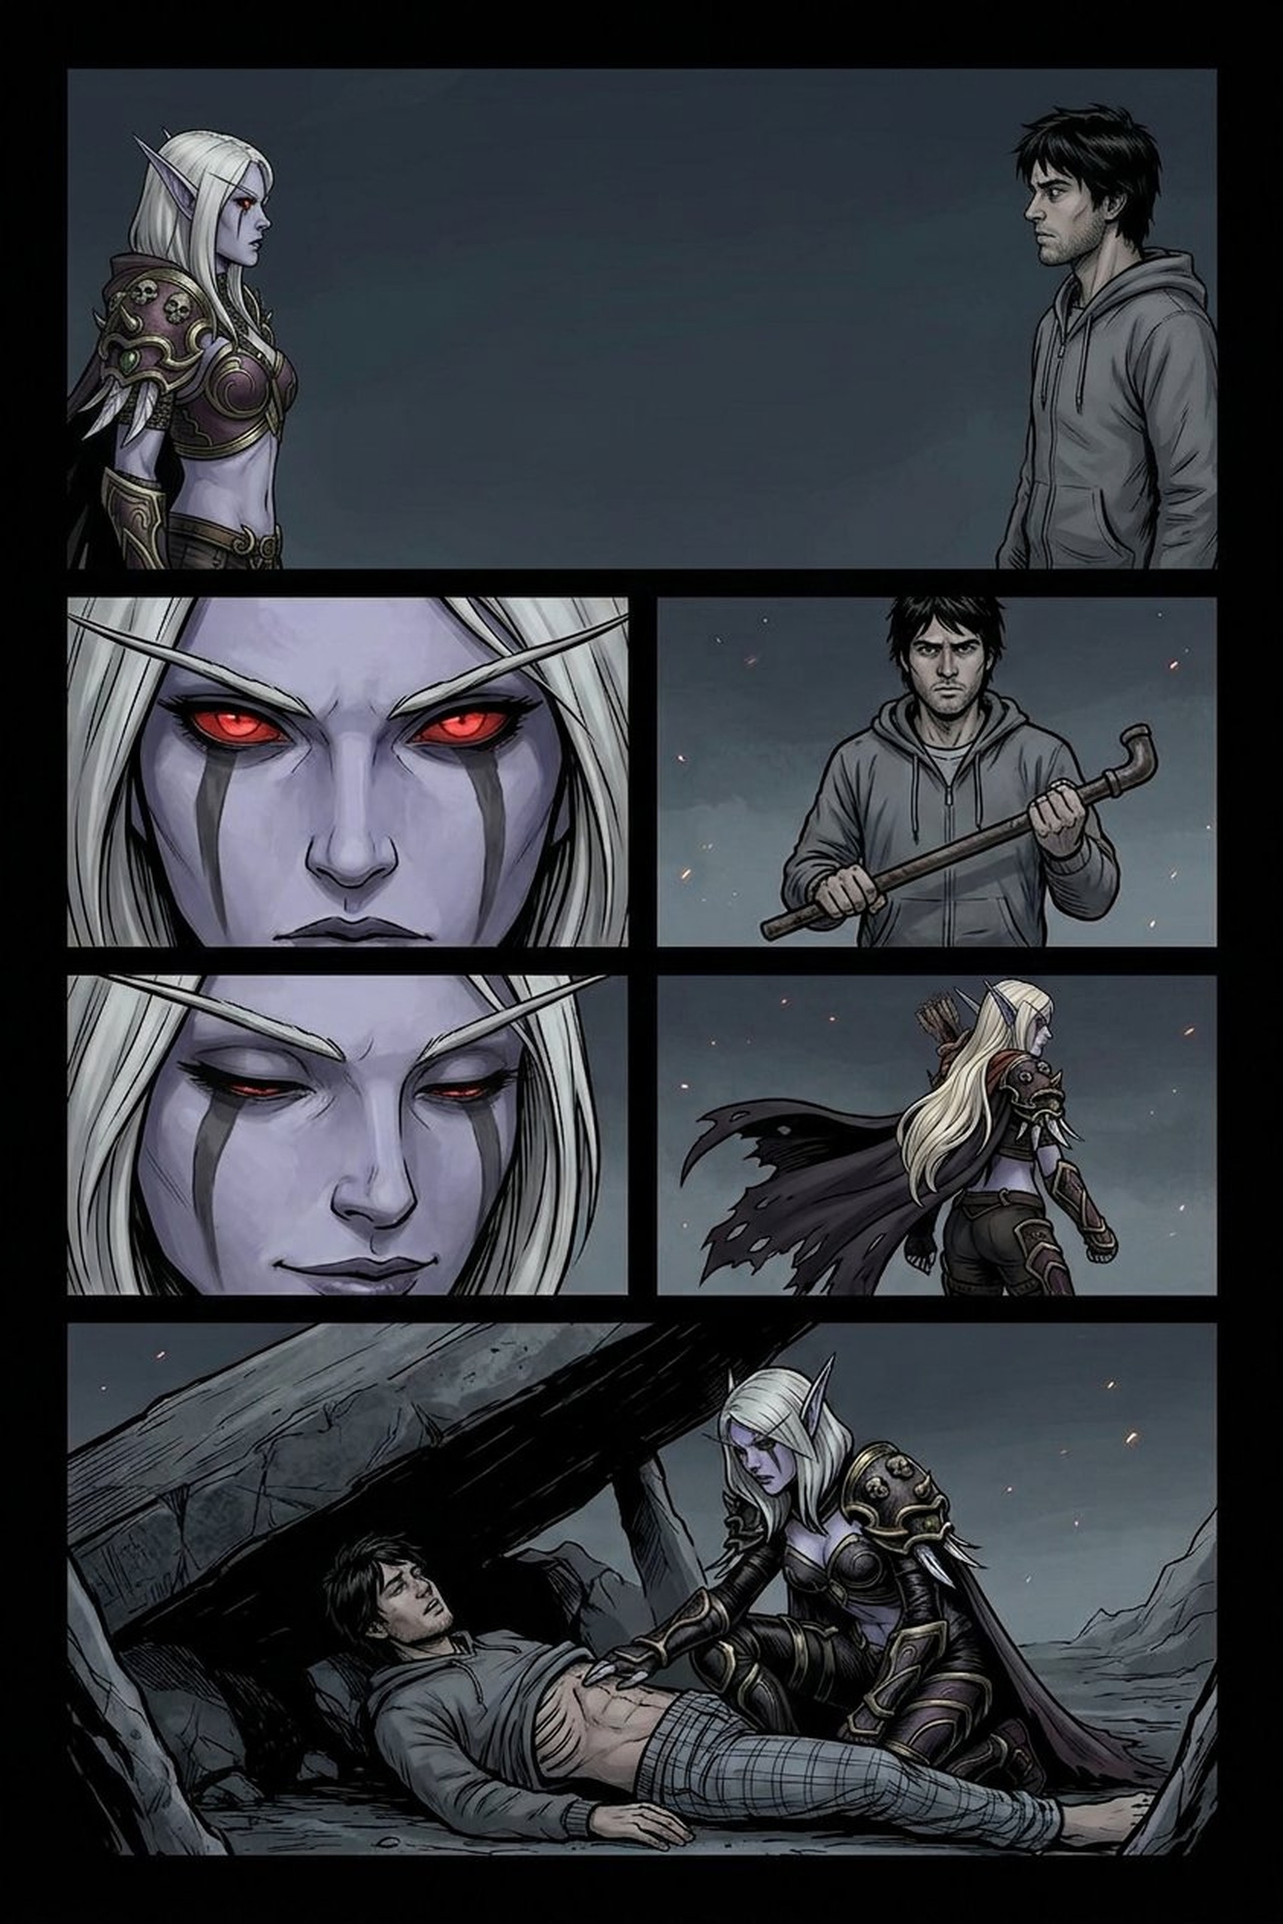
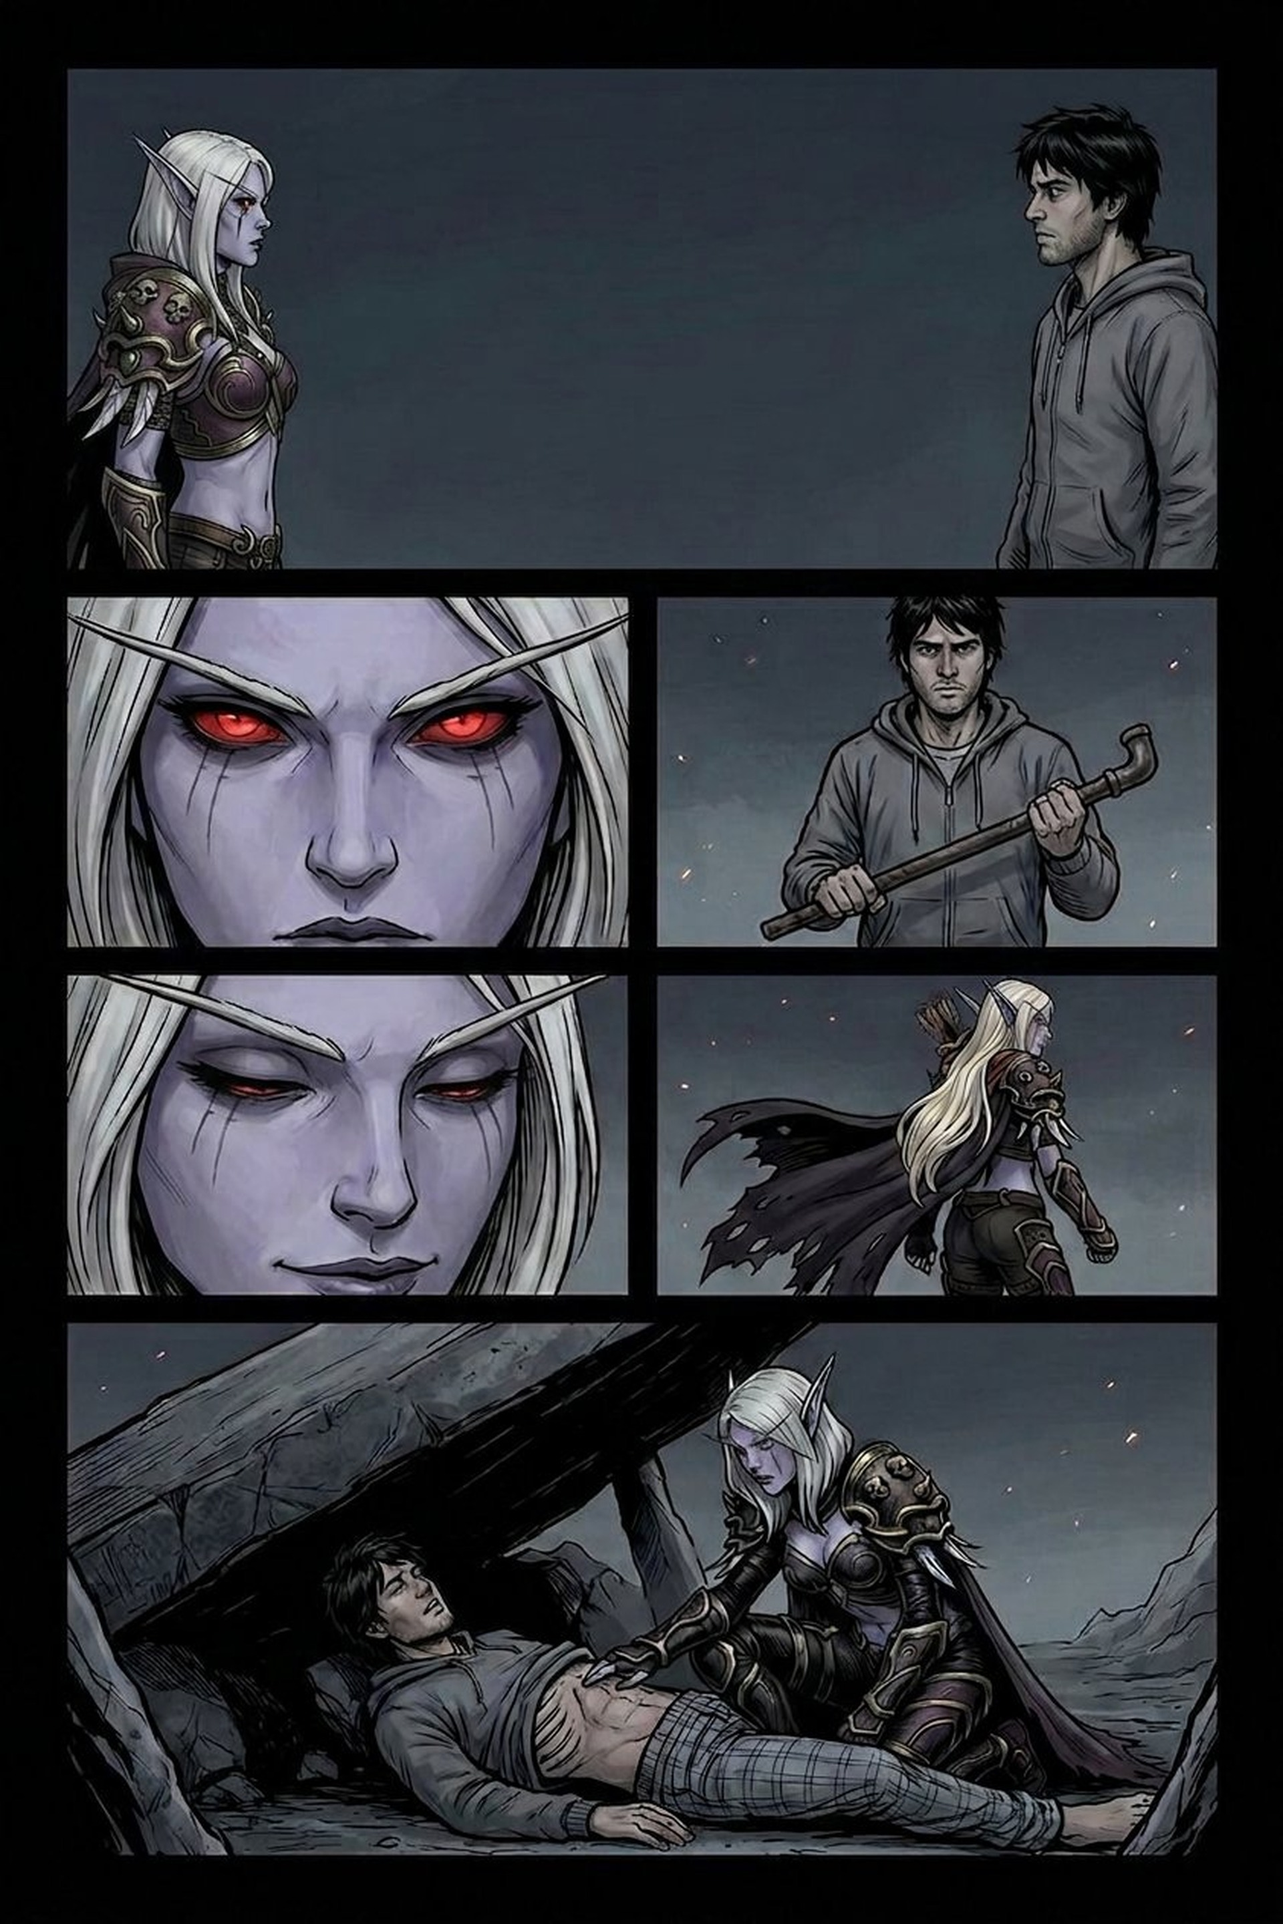
v18 20260911-18: balões por personagem (amarelo=Nathan, branco=Sylvanas) + zero balões sobre personagens
- Distinção visual de falantes: Nathan em balões AMARELOS, Sylvanas em
  balões BRANCOS; caudas recalibradas para apontar para o falante correto
  em todas as páginas
- Marcas sob os olhos da Sylvanas agora idênticas às das primeiras
  páginas (finas e sutis, conforme ficha) — close-ups da P10 regenerados
- Zona de corpo seguro anotada em TODOS os 59 quadros: nenhum balão
  toca rosto ou corpo em nenhuma página (validador 0 violações)
- P5 regenerada (close-ups com céu + panorâmico final); P4-q5 regenerado
  (céu à direita); falas longas redistribuídas para quadros com espaço
- Validador: 94 balões, fs mínima 19px, 0 violações, 0 fora do quadro

diff --git a/livro continua/site/hq/data.js b/livro continua/site/hq/data.js
@@ -16,15 +16,15 @@ const PAGINAS = [
 { img:"img/page01.jpg",
   paineis:[
    {r:[30,30,1215,450]},                                             // 0 panorâmica
-   {r:[75,490,630,525], rostos:[[500,540,150,170]]},                 // 1 acordou
+   {r:[75,490,630,525], rostos:[[500,540,150,170]], zonas:[[240,660,320,350],[90,500,150,510]]},                 // 1 acordou
    {r:[710,490,490,325], zonas:[[712,640,486,170]]},                 // 2 pés
-   {r:[30,835,1215,745], rostos:[[510,1080,135,225]]},               // 3 sentado (grande)
-   {r:[75,1600,1130,285], rostos:[[340,1605,370,275]]}               // 4 close rosto
+   {r:[30,835,1215,745], rostos:[[520,1085,90,95]], zonas:[[505,1180,140,130],[270,1440,710,140]]},               // 3 sentado (grande)
+   {r:[75,1600,1130,285], rostos:[[340,1605,370,275]], zonas:[[75,1600,1130,285]]}               // 4 close rosto
   ],
   elementos:[
    {t:"narra", p:0, texto:"O último de que Nathan se lembrava era o brilho azulado do monitor apagando sozinho, às três e quarenta da manhã."},
-   {t:"narra", p:1, texto:"Acordou com o rosto apoiado em pedra. Fria. Áspera. Com cheiro de metal velho e coisa queimada há muito tempo."},
-   {t:"narra", p:2, texto:"Moletom cinza. Calça de pijama. Um pé descalço, o outro com meia."},
+   {t:"narra", p:0, texto:"Acordou com o rosto apoiado em pedra. Fria. Áspera. Com cheiro de metal velho e coisa queimada há muito tempo."},
+   {t:"narra", p:0, texto:"Moletom cinza. Calça de pijama. Um pé descalço, o outro com meia."},
    {t:"fala", p:3, de:"nathan", ancora:[545,1195], texto:"Certo... Isso é um sonho."},
    {t:"sussurro", p:3, de:"nathan", ancora:[615,1195], texto:"A Gorja... eu estou na Gorja."},
    {t:"sfx", x:1050, y:1820, w:180, texto:"CRRRACK", rot:-12, tamanho:34}
@@ -32,12 +32,12 @@ const PAGINAS = [
 /* ==================== PÁGINA 2 — A caçada (arte real) ==================== */
 { img:"img/page02.jpg",
   paineis:[
-   {r:[55,30,1170,500], rostos:[[760,170,115,115]], zonas:[[335,35,240,200]]}, // 0 guarda
-   {r:[55,545,470,490], rostos:[[235,680,100,100]]},                           // 1 desvio
-   {r:[540,545,685,490], rostos:[[590,645,105,105]], zonas:[[890,595,240,170]]},// 2 soco
-   {r:[25,1060,390,800], rostos:[[95,1235,95,95]], zonas:[[205,1085,200,210]]},// 3 raspão
-   {r:[430,1050,825,445], rostos:[[710,1095,85,85]]},                          // 4 corrida
-   {r:[430,1510,825,370], rostos:[[808,1610,130,112]], zonas:[[465,1535,310,270],[955,1690,165,125]]}// 5 martelada
+   {r:[55,30,1170,500], rostos:[[150,55,95,98],[760,170,115,115]], zonas:[[110,140,270,365],[660,285,280,215]]}, // 0 guarda
+   {r:[55,545,470,490], rostos:[[235,680,100,100]], zonas:[[100,780,335,250]]},                           // 1 desvio
+   {r:[540,545,685,490], rostos:[[590,645,105,105]], zonas:[[555,750,230,285],[890,545,335,490]]},// 2 soco
+   {r:[25,1060,390,800], rostos:[[95,1235,95,95]], zonas:[[205,1085,200,210],[40,1330,345,420]]},// 3 raspão
+   {r:[430,1050,825,445], rostos:[[710,1095,85,85]], zonas:[[670,1180,210,310]]},                          // 4 corrida
+   {r:[430,1510,825,370], rostos:[[808,1610,130,112]], zonas:[[440,1515,330,360],[770,1725,270,150]]}// 5 martelada
   ],
   elementos:[
    {t:"sfx", x:380, y:590, w:200, texto:"CRRRR", rot:-4, tamanho:40},
@@ -51,11 +51,11 @@ const PAGINAS = [
 /* ==================== PÁGINA 3 — As três flechas (arte: page03.jpg) ==================== */
 { img:"img/page03.jpg",
   paineis:[
-   {r:[30,30,600,495], rostos:[[450,235,95,75]], zonas:[[55,40,275,245]]},       // 0 golpe/salto
-   {r:[645,30,600,930], zonas:[[820,35,390,310],[690,690,460,250]]},             // 1 erguida p/ matar
+   {r:[30,30,600,495], rostos:[[450,235,95,75]], zonas:[[30,30,262,300],[290,315,300,185]]},       // 0 golpe/salto
+   {r:[645,30,600,930], zonas:[[690,60,555,700],[840,880,310,80]], rostos:[[882,802,74,74]]},             // 1 erguida p/ matar
    {r:[30,560,600,970], zonas:[[45,800,540,220]]},                               // 2 três flechas
-   {r:[30,1560,600,330], rostos:[[390,1610,95,85]], zonas:[[45,1565,270,295]]},  // 3 cai/dissolve
-   {r:[645,1560,600,330], rostos:[[775,1585,105,120],[665,1755,150,145]]}        // 4 Sylvanas surge
+   {r:[30,1560,600,330], rostos:[[390,1610,95,85]], zonas:[[45,1565,270,295],[330,1695,262,190]]},  // 3 cai/dissolve
+   {r:[645,1560,600,330], rostos:[[790,1588,55,60],[665,1755,150,145]], zonas:[[765,1650,125,62],[895,1700,350,190]]}        // 4 Sylvanas surge
   ],
   elementos:[
    {t:"narra", p:0, texto:"Inútil. Ele sabia que era inútil."},
@@ -69,50 +69,51 @@ const PAGINAS = [
 /* ==================== PÁGINA 4 — Sylvanas (arte: page04.jpg) ==================== */
 { img:"img/page04.jpg",
   paineis:[
-   {r:[30,30,1215,610], rostos:[[195,165,70,90],[795,42,50,75]], zonas:[[600,105,290,78]]},   // 0 encontro
-   {r:[30,660,500,270], rostos:[[40,665,450,260]]},                                                // 1 close Nathan
-   {r:[545,660,700,270], rostos:[[550,665,690,260]]},                                              // 2 olhos dela
-   {r:[30,950,1215,440], rostos:[[372,1052,55,80],[890,1022,45,65]], zonas:[[325,1050,140,255],[900,1125,44,66]]}, // 3 dois no quadro
-   {r:[30,1400,500,490], rostos:[[400,1478,50,78]], zonas:[[18,1418,228,448]]},                   // 4 OTS ombro dela
-   {r:[545,1400,700,490], rostos:[[595,1478,215,245]], zonas:[[950,1728,145,162]]}                 // 5 close aceno
+   {r:[30,30,1215,610], rostos:[[195,250,72,100],[628,58,60,72]], zonas:[[160,255,330,380],[520,55,360,560]]},   // 0 encontro
+   {r:[30,660,500,270], rostos:[[40,665,450,260]], zonas:[[30,660,500,270]]},                                                // 1 close Nathan
+   {r:[545,660,700,270], rostos:[[550,665,690,260]], zonas:[[545,660,700,270]]},                                              // 2 olhos dela
+   {r:[30,950,1215,440], rostos:[[352,1032,56,64],[686,1150,50,58]], zonas:[[320,1098,150,270],[628,1148,198,290]]}, // 3 dois no quadro
+   {r:[30,1400,500,490], rostos:[[342,1440,54,60]], zonas:[[18,1400,288,490],[300,1502,145,318]]},                   // 4 OTS ombro dela
+   {r:[545,1400,700,490], rostos:[[615,1650,120,140]], zonas:[[585,1650,240,240],[985,1400,260,490]]}                 // 5 close aceno
   ],
   elementos:[
-   {t:"fala", p:0, de:"sylvanas", ancora:[885,150], texto:"Você sabe meu nome."},
-   {t:"fala", p:0, de:"nathan", rouca:1, ancora:[250,275], texto:"Sylvanas."},
+   {t:"fala", p:0, de:"sylvanas", ancora:[655, 95], texto:"Você sabe meu nome."},
+   {t:"fala", p:0, de:"nathan", rouca:1, ancora:[230, 290], texto:"Sylvanas."},
    {t:"narra", p:3, texto:"A garganta fechou. Não de medo — ou não só. Aquilo era um curto-circuito entre o que é real e o que é história."},
-   {t:"fala", p:3, de:"nathan", ancora:[400,1105], texto:"Sei."},
-   {t:"fala", p:3, de:"sylvanas", ancora:[900,1110], texto:"Diga como."},
-   {t:"fala", p:3, de:"nathan", ancora:[400,1110], texto:"Você não vai acreditar."},
-   {t:"fala", p:3, de:"sylvanas", ancora:[900,1115], texto:"Isso é irrelevante. Diga mesmo assim."},
-   {t:"fala", p:4, de:"nathan", ancora:[430,1530], xpref:"dir", tamanho:20, texto:"Eu dormi na minha casa. No meu mundo. Acordei aqui. Sem transição, sem portal, sem nada."},
-   {t:"fala", p:5, de:"nathan", ancora:[805,1655], texto:"Acordei de pijama numa pedra... e a primeira coisa que apareceu tentou me abrir ao meio."},
-   {t:"fala", p:5, de:"nathan", ancora:[700,1700], texto:"Obrigado, aliás. Por isso."},
+   {t:"fala", p:3, de:"nathan", ancora:[378, 1085], texto:"Sei."},
+   {t:"fala", p:3, de:"sylvanas", ancora:[708, 1170], texto:"Diga como."},
+   {t:"fala", p:3, de:"nathan", ancora:[210, 1000], texto:"Você não vai acreditar."},
+   {t:"fala", p:0, de:"sylvanas", ancora:[655, 95], texto:"Isso é irrelevante. Diga mesmo assim."},
+   {t:"fala", p:0, de:"nathan", ancora:[100, 120], tamanho:20, texto:"Eu dormi na minha casa. No meu mundo. Acordei aqui. Sem transição, sem portal, sem nada."},
+   {t:"fala", p:5, de:"nathan", ancora:[675, 1720], texto:"Acordei de pijama numa pedra... e a primeira coisa que apareceu tentou me abrir ao meio."},
+   {t:"fala", p:5, de:"nathan", ancora:[675, 1720], texto:"Obrigado, aliás. Por isso."},
    {t:"narra", p:3, texto:"Ela não reagiu ao agradecimento. Nem para aceitar, nem para desprezar."}
   ]},
 /* ==================== PÁGINA 5 — O jogo (quadros provisórios) ==================== */
 /* ==================== PÁGINA 5 — O jogo (arte real) ==================== */
 { img:"img/page05.jpg",
  paineis:[
-   {r:[30,30,1215,585], rostos:[[195,95,75,85],[420,180,65,75]], zonas:[[265,115,370,485],[750,270,330,330]]},
-   {r:[30,630,590,310], rostos:[[95,692,112,122]]},
-   {r:[650,630,600,310], rostos:[[842,712,105,120]]},
-   {r:[30,960,630,410], rostos:[[855,1075,105,105],[30,1265,185,110]], zonas:[[810,1075,160,260]]},
-   {r:[670,960,580,200], rostos:[[730,982,270,172]]},
-   {r:[670,1180,580,190], rostos:[[795,1195,110,110]], zonas:[[690,1185,90,180]]},
-   {r:[30,1390,1215,500], rostos:[[425,1445,70,90],[675,1625,70,80]], zonas:[[390,1530,150,330],[650,1700,130,170]]}
+   {r:[30,30,1215,585], rostos:[[195,95,75,85],[420,180,65,75]], zonas:[[140,180,195,425],[390,255,122,350],[880,300,335,300]]},
+   {r:[30,630,590,310], rostos:[[458,798,80,84]], zonas:[[420,880,175,60],[400,825,60,80]]},
+   {r:[650,630,600,310], rostos:[[788,788,125,162]], zonas:[[680,930,300,10]]},
+   {r:[30,960,630,410], rostos:[[498,1042,84,92],[30,1265,185,110]], zonas:[[475,1035,160,235],[30,1210,205,158],[230,1300,400,68]]},
+   {r:[670,960,580,200], rostos:[[730,982,270,172]], zonas:[[670,960,580,200]]},
+   {r:[670,1180,580,190], rostos:[[795,1195,110,110]], zonas:[[680,1300,345,68]]},
+   {r:[30,1390,1215,500], rostos:[[96,1768,28,26],[868,1792,26,24]], zonas:[[78,1795,75,80],[848,1815,62,60]]}
  ],
  elementos:[
    {t:"fala", p:0, de:"sylvanas", ancora:[230, 185], texto:"Seu mundo."},
    {t:"fala", p:0, de:"nathan", ancora:[450, 225], texto:"Outro mundo. Não Azeroth. Não... nada disso."},
-   {t:"fala", p:1, de:"sylvanas", ancora:[190, 880], texto:"E nesse outro mundo... as pessoas conhecem o meu nome."},
-   {t:"fala", p:2, de:"nathan", ancora:[900, 880], texto:"Conhecem. Milhões delas."},
-   {t:"narra", p:2, texto:"O silêncio ficou muito mais frio."},
-   {t:"fala", p:2, de:"sylvanas", ancora:[900, 870], texto:"Explique."},
-   {t:"fala", p:3, de:"nathan", ancora:[120, 1300], texto:"No meu mundo, Azeroth existe dentro de um jogo. Chama-se World of Warcraft. As pessoas se sentam diante de uma máquina, controlam personagens, viajam por Ventobravo, Orgrimmar, Tirisfal... Eu passei anos fazendo isso."},
-   {t:"fala", p:3, de:"sylvanas", ancora:[908, 1105], texto:"Um jogo."},
-   {t:"fala", p:3, de:"nathan", ancora:[125, 1305], texto:"Um jogo."},
+   {t:"fala", p:1, de:"sylvanas", ancora:[498, 828], texto:"E nesse outro mundo... as pessoas conhecem o meu nome."},
+   {t:"fala", p:2, de:"nathan", ancora:[852, 830], texto:"Conhecem. Milhões delas."},
+   {t:"narra", p:5, texto:"O silêncio ficou muito mais frio."},
+   {t:"fala", p:1, de:"sylvanas", ancora:[498, 828], texto:"Explique."},
+   {t:"fala", p:3, de:"nathan", ancora:[130, 1260], tamanho:20, texto:"No meu mundo, Azeroth existe dentro de um jogo. Chama-se World of Warcraft."},
+   {t:"fala", p:0, de:"nathan", ancora:[230, 290], tamanho:20, texto:"As pessoas se sentam diante de uma máquina, controlam personagens, viajam por Ventobravo, Orgrimmar, Tirisfal... Eu passei anos fazendo isso."},
+   {t:"fala", p:3, de:"sylvanas", ancora:[530, 1090], texto:"Um jogo."},
+   {t:"fala", p:3, de:"nathan", ancora:[200, 1270], texto:"Um jogo."},
    {t:"fala", p:6, de:"sylvanas", ancora:[460, 1470], texto:"E dentro desse jogo existe alguém chamada Sylvanas Windrunner."},
-   {t:"fala", p:6, de:"nathan", ancora:[460, 1475], texto:"Existe a sua história inteira. Desde Quel'Thalas."},
+   {t:"fala", p:6, de:"nathan", ancora:[882, 1818], texto:"Existe a sua história inteira. Desde Quel'Thalas."},
    {t:"fala", p:6, de:"sylvanas", ancora:[460, 1535], texto:"Você é uma armadilha, um espião ou um lunático. Nenhuma das três hipóteses recomenda que eu o deixe vivo."},
    {t:"fala", p:6, de:"nathan", ancora:[710, 1700], texto:"Se eu fosse uma armadilha... eu teria vindo com sapatos."}
  ]},
@@ -221,7 +222,7 @@ const PAGINAS = [
    {r:[650,580,600,370], rostos:[[790,628,112,108]], zonas:[[690,760,300,110]]},
    {r:[30,970,590,330], rostos:[[30,970,590,330]]},
    {r:[650,970,600,330], rostos:[[798,1000,64,58]], zonas:[[690,1040,270,240]]},
-   {r:[30,1320,1215,570], rostos:[[300,1518,68,52],[618,1382,58,58]], zonas:[[240,1565,430,295],[555,1430,265,340]]}
+   {r:[30,1320,1215,570], rostos:[[300,1518,68,52],[618,1382,58,58]], zonas:[[240,1565,430,295],[555,1430,265,340],[61,1490,175,400]]}
  ],
  elementos:[
    {t:"fala", p:0, de:"sylvanas", ancora:[235, 205], tamanho:20, texto:"Você entende que não tem absolutamente nenhuma condição de me ajudar."},
@@ -230,7 +231,7 @@ const PAGINAS = [
    {t:"fala", p:0, de:"nathan", ancora:[842, 150], tamanho:20, texto:"Prometer que eu vou correr e não voltar é uma promessa sobre a pessoa que eu sou."},
    {t:"fala", p:0, de:"nathan", ancora:[842, 150], tamanho:20, texto:"E eu prefiro não mentir sobre isso... no meu primeiro dia."},
    {t:"fala", p:4, de:"sylvanas", ancora:[830, 1029], texto:"Hm."},
-   {t:"narra", p:5, texto:"Muito baixo. Quase inaudível. Ela voltou a andar. Ele a seguiu — três passos atrás, à esquerda."},
+   {t:"narra", p:4, texto:"Muito baixo. Quase inaudível. Ela voltou a andar. Ele a seguiu — três passos atrás, à esquerda."},
    {t:"narra", p:5, texto:"Estranhamente, isso não o assustou."},
    {t:"narra", p:5, texto:"Isso o deixou curioso."},
    {t:"narra", p:5, texto:"Durante quatro anos, ele carregara o rosto dela no braço. E naquela noite, a primeira de muitas, percebeu que não sabia absolutamente nada sobre a mulher que tinha salvo sua vida."},

diff --git a/livro continua/site/hq/leitor.js b/livro continua/site/hq/leitor.js
@@ -6,7 +6,7 @@
    Rabichos são desenhados sobre os balões REAIS medidos no DOM.
    ============================================================ */
 const PW = 1280, PH = 1920;
-const VER = "20260911-17";
+const VER = "20260911-18";
 const NS = "http://www.w3.org/2000/svg";
 const COM_RABICHO = ["fala","grito","rouca","sussurro"];
 
@@ -79,6 +79,7 @@ function construirPagina(idx, itens){
     const b = document.createElement("div");
     let cls = `balao ${e.t}`;
     if(e.de==="sylvanas") cls += " syl";
+    if(e.de==="nathan") cls += " nat";
     if(e.rouca) cls += " rouca";
     b.className = cls;
     b.dataset.tipo = e.t;
@@ -99,7 +100,8 @@ function construirPagina(idx, itens){
 
 /* ---------------- rabichos (medidos nos balões reais) ---------------- */
 function coresRabicho(b){
-  if(b.classList.contains("syl"))      return {col:"#241a2e", fill:"#f1ecf7"};
+  if(b.classList.contains("nat"))      return {col:"#17141c", fill:"#ffdf4f"};
+  if(b.classList.contains("syl"))      return {col:"#241a2e", fill:"#ffffff"};
   if(b.classList.contains("sussurro")) return {col:"#55505c", fill:"#ecebe7"};
   if(b.classList.contains("grito"))    return {col:"#17141c", fill:"#f6f1e6"};
   return {col:"#17141c", fill:"#fbf8f0"};

diff --git a/livro continua/site/hq/index.html b/livro continua/site/hq/index.html
@@ -12,7 +12,7 @@
 <link rel="preconnect" href="https://fonts.googleapis.com">
 <link rel="preconnect" href="https://fonts.gstatic.com" crossorigin>
 <link href="https://fonts.googleapis.com/css2?family=Bangers&family=Oswald:wght@400;500;600;700&family=Spectral:ital,wght@1,400;1,500;1,600" rel="stylesheet">
-<link rel="stylesheet" href="hq.css?v=20260911-17">
+<link rel="stylesheet" href="hq.css?v=20260911-18">
 </head>
 <body>
 
@@ -52,9 +52,9 @@
 <div class="dots" id="dots"></div>
 <div class="indicador" id="ind"></div>
 
-<script src="layout.js?v=20260911-17"></script>
-<script src="data.js?v=20260911-17"></script>
-<script src="leitor.js?v=20260911-17"></script>
+<script src="layout.js?v=20260911-18"></script>
+<script src="data.js?v=20260911-18"></script>
+<script src="leitor.js?v=20260911-18"></script>
 <script>
 document.getElementById("capaBt").addEventListener("click",()=>{
   document.getElementById("capa").classList.remove("oculta");

diff --git a/livro continua/site/hq/ler.html b/livro continua/site/hq/ler.html
@@ -12,7 +12,7 @@
 <link rel="preconnect" href="https://fonts.googleapis.com">
 <link rel="preconnect" href="https://fonts.gstatic.com" crossorigin>
 <link href="https://fonts.googleapis.com/css2?family=Bangers&family=Oswald:wght@400;500;600;700&family=Spectral:ital,wght@1,400;1,500;1,600" rel="stylesheet">
-<link rel="stylesheet" href="hq.css?v=20260911-17">
+<link rel="stylesheet" href="hq.css?v=20260911-18">
 </head>
 <body>
 
@@ -52,9 +52,9 @@
 <div class="dots" id="dots"></div>
 <div class="indicador" id="ind"></div>
 
-<script src="layout.js?v=20260911-17"></script>
-<script src="data.js?v=20260911-17"></script>
-<script src="leitor.js?v=20260911-17"></script>
+<script src="layout.js?v=20260911-18"></script>
+<script src="data.js?v=20260911-18"></script>
+<script src="leitor.js?v=20260911-18"></script>
 <script>
 document.getElementById("capaBt").addEventListener("click",()=>{
   document.getElementById("capa").classList.remove("oculta");

diff --git a/livro continua/site/hq/hq.css b/livro continua/site/hq/hq.css
@@ -121,9 +121,13 @@ svg.rabichos{position:absolute;inset:0;width:100%;height:100%;overflow:visible;z
 /* Sylvanas: duplo-eco — papel frio arroxeado, contorno escuro e halo espectral */
 .balao.syl{color:#20122a}
 .balao.syl .tx{
-  background:#f1ecf7;border-color:#241a2e;border-radius:14px 26px 14px 26px;
+  background:#ffffff;border-color:#241a2e;border-radius:14px 26px 14px 26px;
   box-shadow:0 3px 0 rgba(20,12,26,.3), 0 12px 26px rgba(0,0,0,.5),
              inset 0 0 0 1px rgba(122,82,150,.4), 0 0 0 2px rgba(120,80,150,.15);
+}
+/* Nathan: amarelo */
+.balao.nat .tx{
+  background:#ffdf4f;border-color:#17141c;
 }
 .balao.rouca .tx{font-style:italic;letter-spacing:.03em}
 /* grito — contorno irregular, profundidade por drop-shadow (não sofre clip) */
